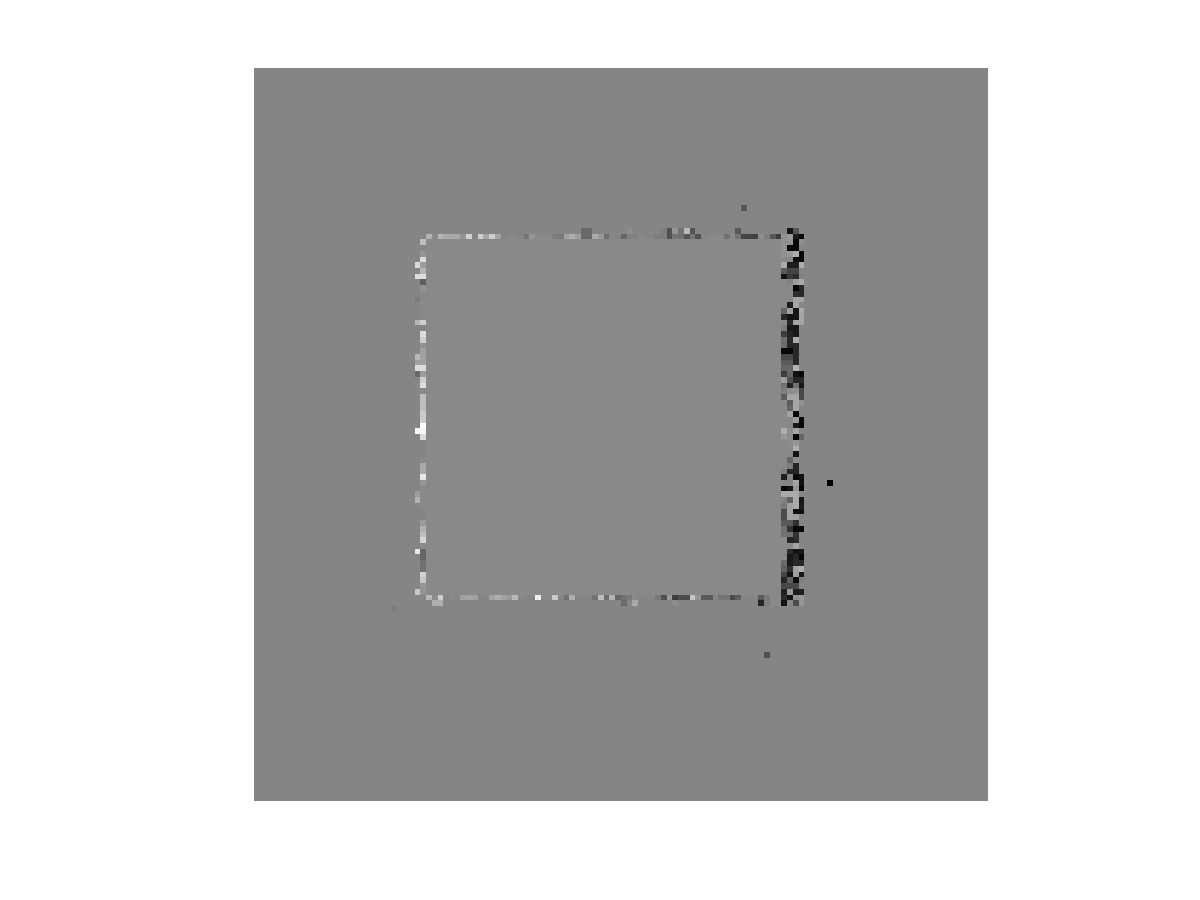
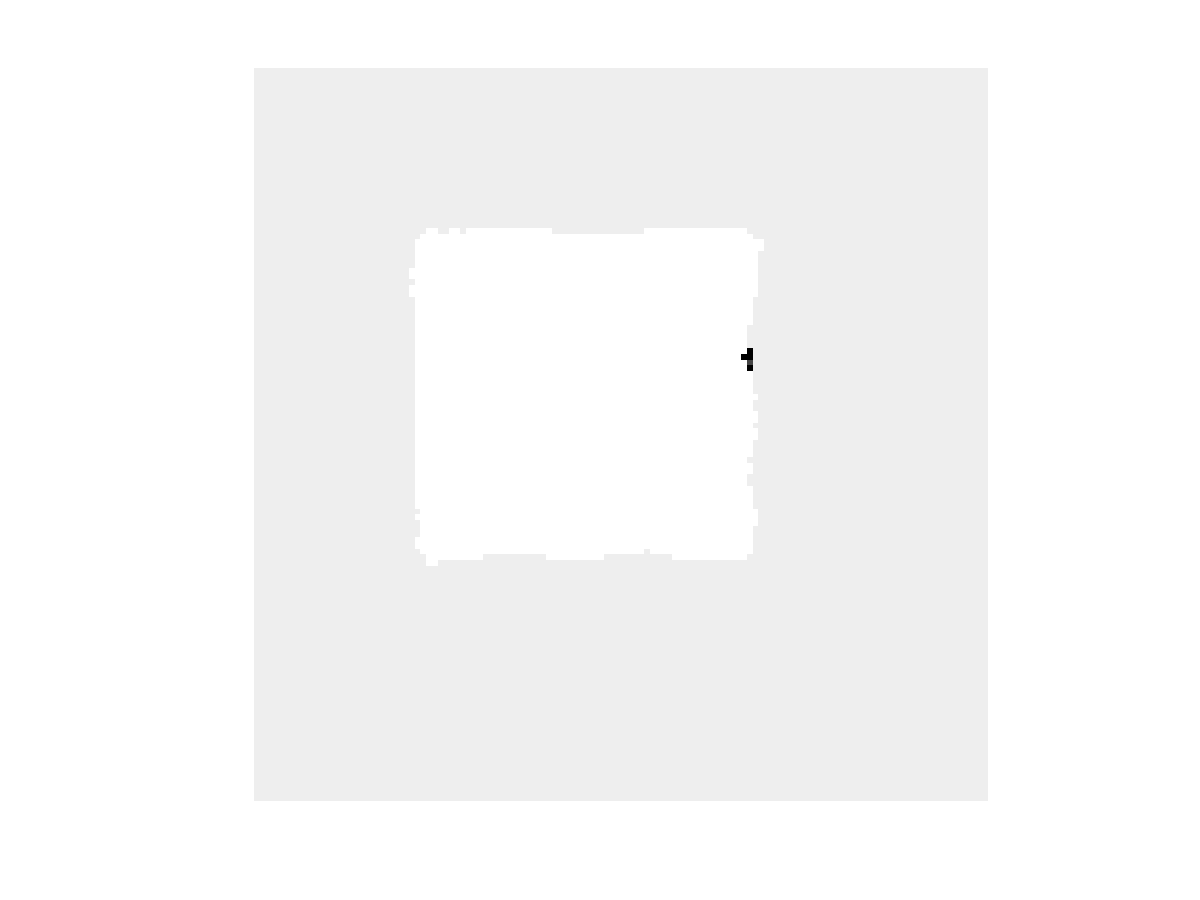
update disparity ssd

diff --git a/georgiatech_cs4495/ps2_octave/disparity_ssd.m b/georgiatech_cs4495/ps2_octave/disparity_ssd.m
@@ -7,33 +7,26 @@ function D = disparity_ssd(L, R)
 
     % TODO: Your code here
     [h, w] = size(L);
-    win_w = 3;
-    win_h = 3;
+    win_w = 11;
+    win_h = 11;
     
-    patch = zeros(win_h, win_w);
-    strip = zeros(win_h, w);
     D = zeros(h, w);
 
     for i = 1 : h - win_h + 1
         for j = 1 : w - win_w + 1
             % abstract a window from L
-            patch = L(i : i + win_h - 1, j : j + win_w - 1);
-            strip = R(i : i + win_h - 1, :);
-            best_x = find_best_match(patch, strip);
-            D(i, j) = best_x - j;
+            D(i, j) = find_best_match(L(i : i + win_h - 1, j : j + win_w - 1),...
+                            R(i : i + win_h - 1, :)) - j;
         end
     end
 end
 
-function best_x = find_best_match(patch, strip)
-    min_diff = Inf;
-    best_x = 1;
-    
+function best_x = find_best_match(patch, strip)    
+
+    diff = zeros(size(strip, 2) - size(patch, 2) + 1);
     for i = 1 : size(strip, 2) - size(patch, 2) + 1
-        diff = sumsq((patch - strip(:, i : i + size(patch, 2) - 1))(:));
-        if(diff < min_diff)
-            min_diff = diff;
-            best_x = i;
-        end
+        diff(i) = sumsq((patch - strip(:, i : i + size(patch, 2) - 1))(:));
     end
+    
+    best_x = find(diff == min(diff))(1);
 end

diff --git a/georgiatech_cs4495/ps2_octave/ps2.m b/georgiatech_cs4495/ps2_octave/ps2.m
@@ -1,6 +1,11 @@
 % ps2
+clc;
+clear all;
+close all;
+
 pkg load image;  % Octave only
 
+%{
 %% 1-a
 % Read images
 L = im2double(imread(fullfile('input', 'pair0-L.png')));
@@ -9,12 +14,20 @@ R = im2double(imread(fullfile('input', 'pair0-R.png')));
 % Compute disparity
 D_L = disparity_ssd(L, R);
 D_R = disparity_ssd(R, L);
+
+% TODO: Save output images (D_L as output/ps2-1-a-1.png and D_R as 
+% output/ps2-1-a-2.png)
+% Note: They may need to be scaled/shifted before saving to show results 
+% properly
 figure, imshow(D_L, []);
 print('output/ps2-1-a-1.png');
 figure, imshow(D_R, []);
 print('output/ps2-1-a-2.png');
-
-% TODO: Save output images (D_L as output/ps2-1-a-1.png and D_R as output/ps2-1-a-2.png)
-% Note: They may need to be scaled/shifted before saving to show results properly
+%}
 
 % TODO: Rest of your code here
+L = im2double(rgb2gray(imread('input/pair1-L.png')));
+R = im2double(rgb2gray(imread('input/pair1-R.png')));
+D_L = disparity_ssd(L, R);
+figure, imshow(D_L, []);
+print('output/ps2-2-a-1.png')
